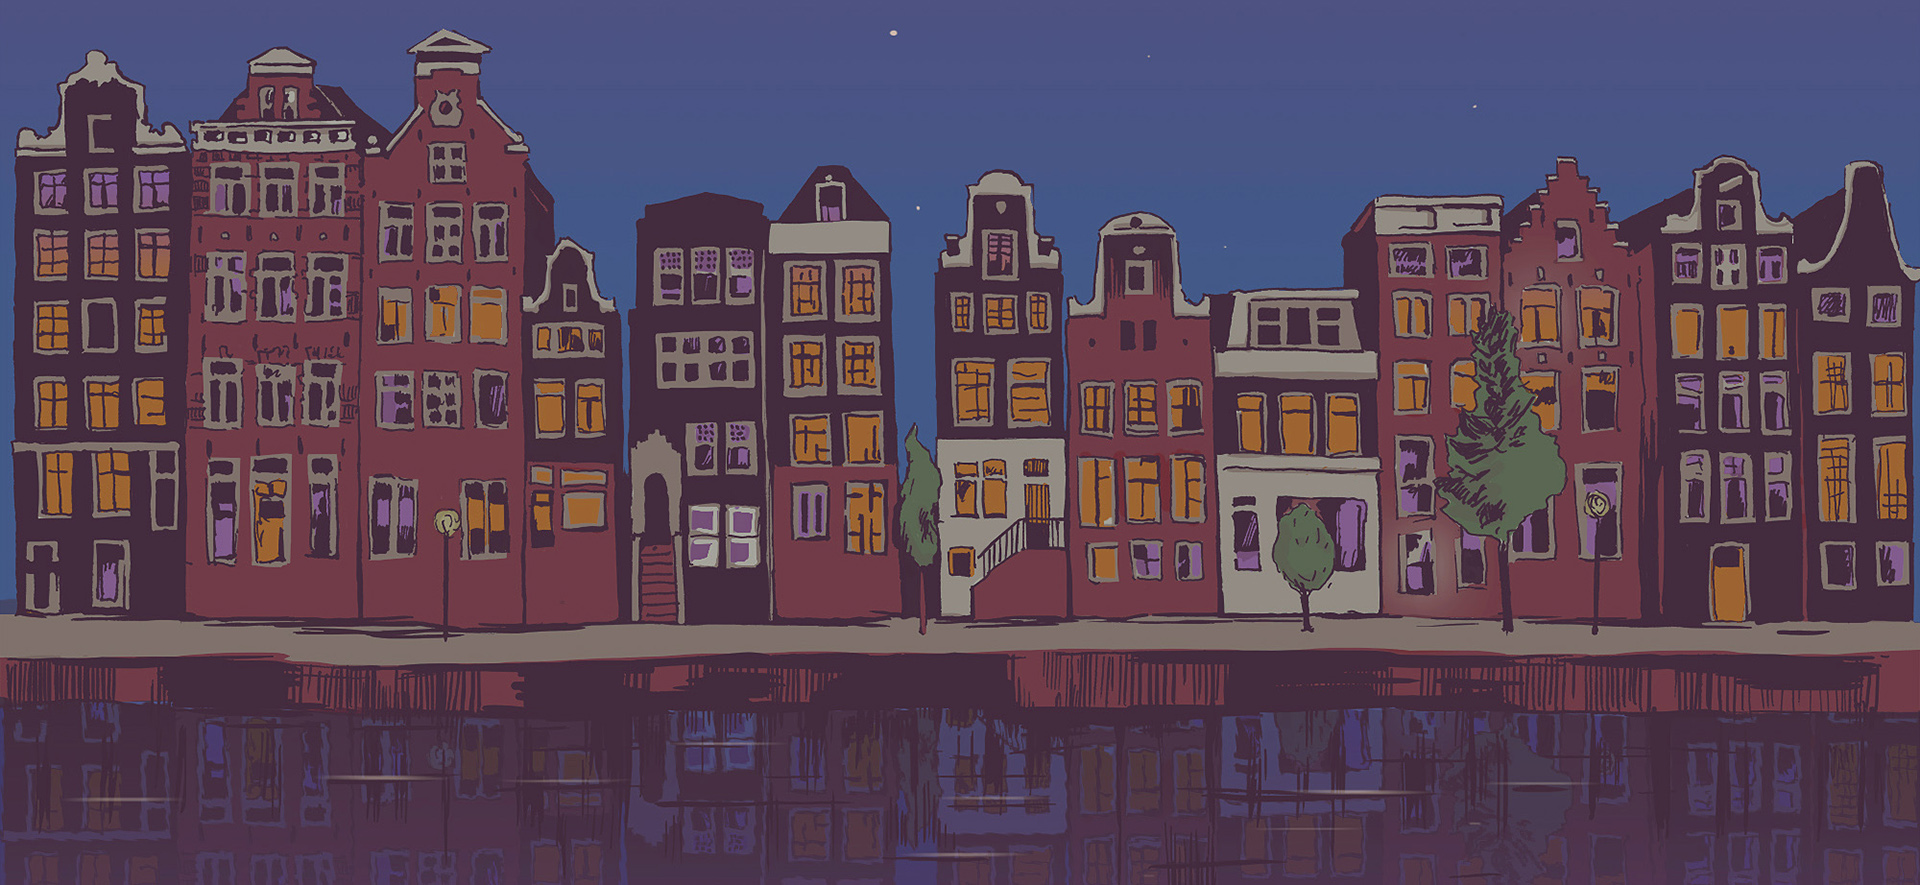
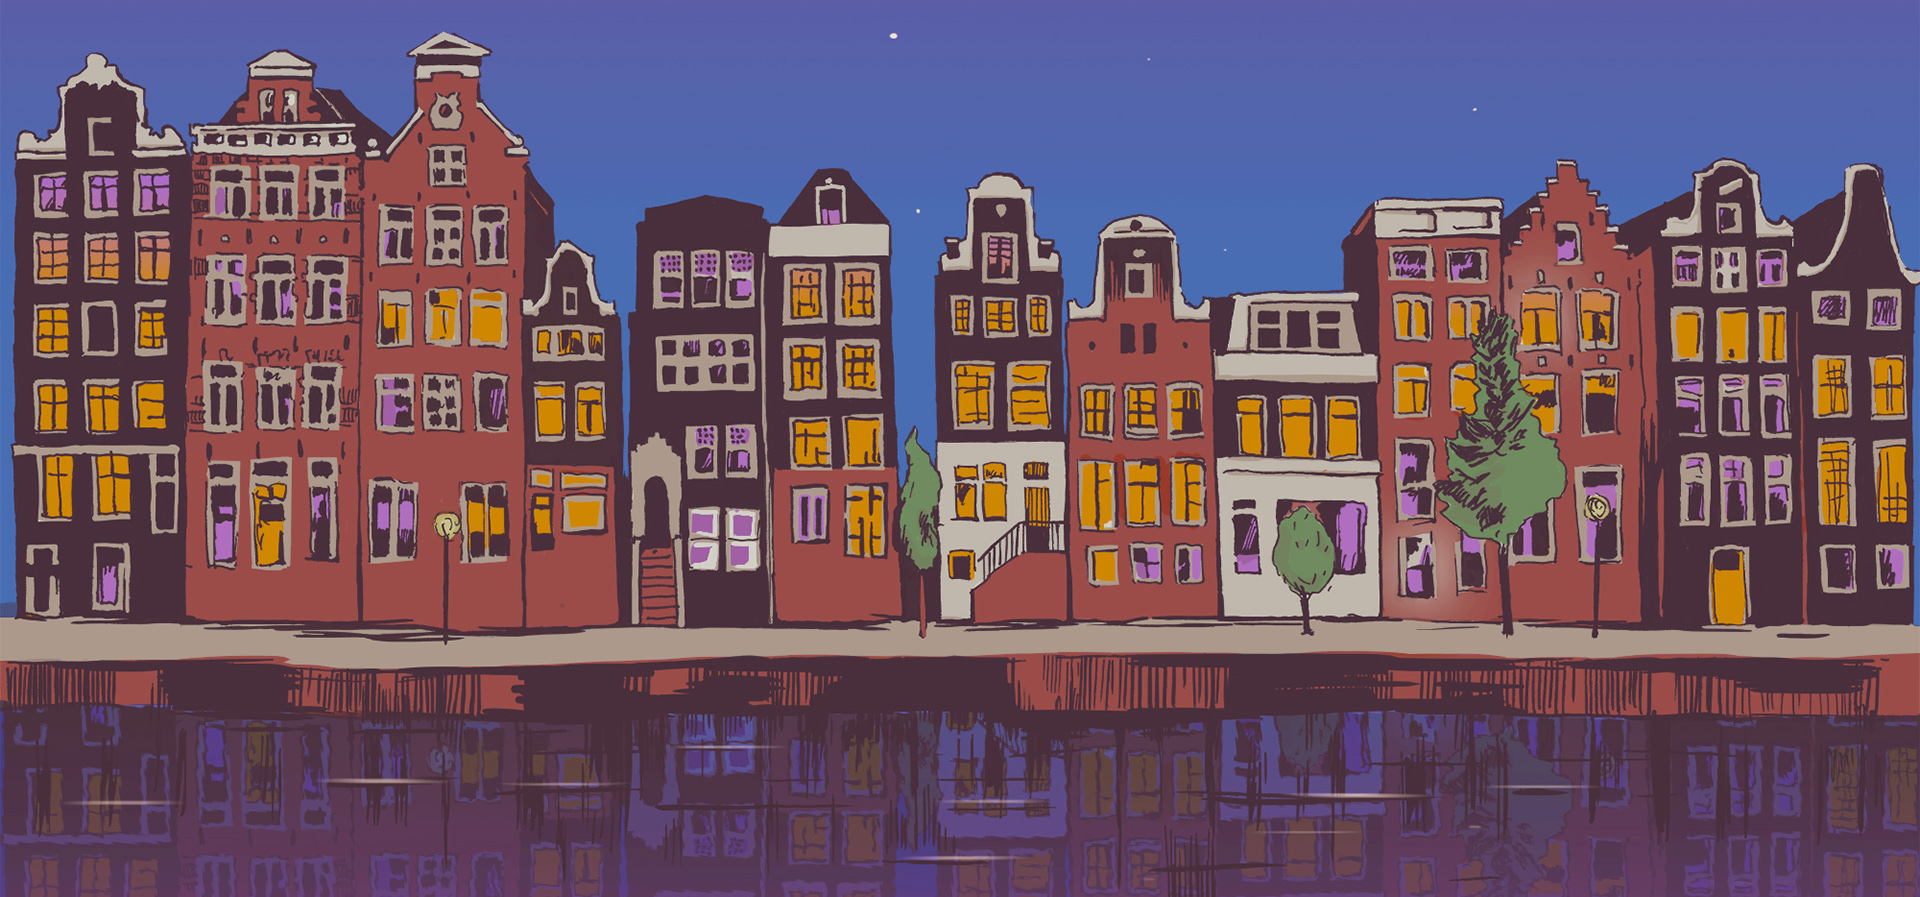
Latest background

diff --git a/docs/css/sass.css b/docs/css/sass.css
@@ -1,1 +1,1 @@
-body{font:100% 'NowRegular';font-weight:normal;font-style:normal;line-height:140%;color:#505050;margin:0;background-color:white}.site{display:flex;flex-direction:column}.site a,.site a:visited{text-decoration:none;cursor:pointer;color:#21468b}.site a:hover{opacity:0.6}.site .wrapper{flex:1;display:flex;flex-flow:row wrap}.site .wrapper .header,.site .wrapper .main,.site .wrapper .sidebar{flex:1 1 100%}.site .wrapper .header{display:flex;flex-direction:column;padding:0;background:url("../img/houses.jpg");background-size:cover;background-position:center}.site .wrapper .header div.title{flex:1 100%;width:100%;margin:auto}.site .wrapper .header div.logo{margin-left:20px;margin-top:20px;flex:1 100%}.site .wrapper .header div.logo img{width:200px}.site .wrapper .header h1{display:block;text-align:center;color:#fff;padding:10px;position:relative;z-index:1;width:100%;min-width:300px}.site .wrapper .header h1::after{content:" ";z-index:-1;position:absolute;top:0;left:0;width:100%;height:100%;background:#203257;opacity:0.8}.site .wrapper .sidebar{flex-direction:column;display:flex;background:#f7f7f7;padding-top:40px;padding-left:20px}.site .wrapper .sidebar a.item{padding-bottom:20px}.site .wrapper .sidebar.collapsed{height:20px}.site .wrapper .main{padding-left:20px;padding-bottom:40px}.site .wrapper .main h2{font-size:1.2rem;margin-top:40px}.site .wrapper .main h2::after{content:" ";display:block;width:80px;height:2px;margin:10px 0;background:#ae1c28}.site .wrapper .main h3{font-size:0.9rem}@media all and (min-width: 800px){.site .wrapper .main{flex:4 1 0;padding-bottom:40px}.site .wrapper .sidebar{flex:1 1 0}}@media all and (max-width: 800px){.site .wrapper .sidebar{padding-top:20px}.site .wrapper .sidebar a.item{text-align:center}.site .wrapper .header div.logo{margin:auto;margin-top:20px}}.site .wrapper .org-info{display:block}.site .wrapper .org-info:after{content:","}.site .wrapper .org-info img{height:15px;padding:0 10px}.site .wrapper .org-info:last-child:after{content:""}.site .footer{display:flex;flex-direction:row wrap;border-top:1px solid #203257}.site .footer a{flex:1 1 auto;display:block;text-align:center}@media all and (max-width: 500px){.site .footer a{text-align:center}}
+body{font:100% 'NowRegular';font-weight:normal;font-style:normal;line-height:170%;color:#505050;margin:0;background-color:white}.site{display:flex;flex-direction:column}.site a,.site a:visited{text-decoration:none;cursor:pointer;color:#21468b}.site a:hover{opacity:0.6}.site .wrapper{flex:1;display:flex;flex-flow:row wrap}.site .wrapper .header,.site .wrapper .main,.site .wrapper .sidebar{flex:1 1 100%}.site .wrapper .header{display:flex;flex-direction:column;padding:0;background:url("../img/houses.jpg");background-size:cover;background-position:center}.site .wrapper .header div.title{flex:1 100%;width:100%;margin:auto}.site .wrapper .header div.logo{margin-left:20px;margin-top:20px;flex:1 100%}.site .wrapper .header div.logo img{width:200px}.site .wrapper .header h1{display:block;text-align:center;color:#fff;padding:10px;position:relative;z-index:1;min-width:300px;line-height:150%}.site .wrapper .header h1::after{content:" ";z-index:-1;position:absolute;top:0;left:0;width:100%;height:100%;background:#203257;opacity:0.8}.site .wrapper .sidebar{flex-direction:column;display:flex;background:#f7f7f7;padding-top:40px;padding-left:20px}.site .wrapper .sidebar a.item{padding-bottom:20px}.site .wrapper .sidebar.collapsed{height:20px}.site .wrapper .main{padding-left:20px;padding-bottom:20px}.site .wrapper .main h2{font-size:1.2rem;margin-top:40px}.site .wrapper .main h2::after{content:" ";display:block;width:80px;height:2px;margin:10px 0;background:#ae1c28}.site .wrapper .main h3{font-size:0.9rem}@media all and (min-width: 800px){.site .wrapper .main{flex:4 1 0;padding-bottom:20px}.site .wrapper .sidebar{flex:1 1 0}}@media all and (max-width: 800px){.site .wrapper .sidebar,.site .wrapper .main{padding-left:10px;padding-right:10px}.site .wrapper .sidebar{padding-top:20px}.site .wrapper .sidebar a.item{text-align:center}.site .wrapper .header div.logo{margin:auto;margin-top:20px}}.site .wrapper .org-info{display:block}.site .wrapper .org-info:after{content:","}.site .wrapper .org-info img{height:15px;padding:0 10px}.site .wrapper .org-info:last-child:after{content:""}.site .footer{display:flex;flex-direction:row wrap;height:52px;background:#f7f7f7}.site .footer a{flex:1 1 auto;display:inline-block;text-align:center;vertical-align:middle}.site .footer a img{padding:10px;height:32px;width:32px}@media all and (max-width: 500px){.site .footer a{text-align:center}}
